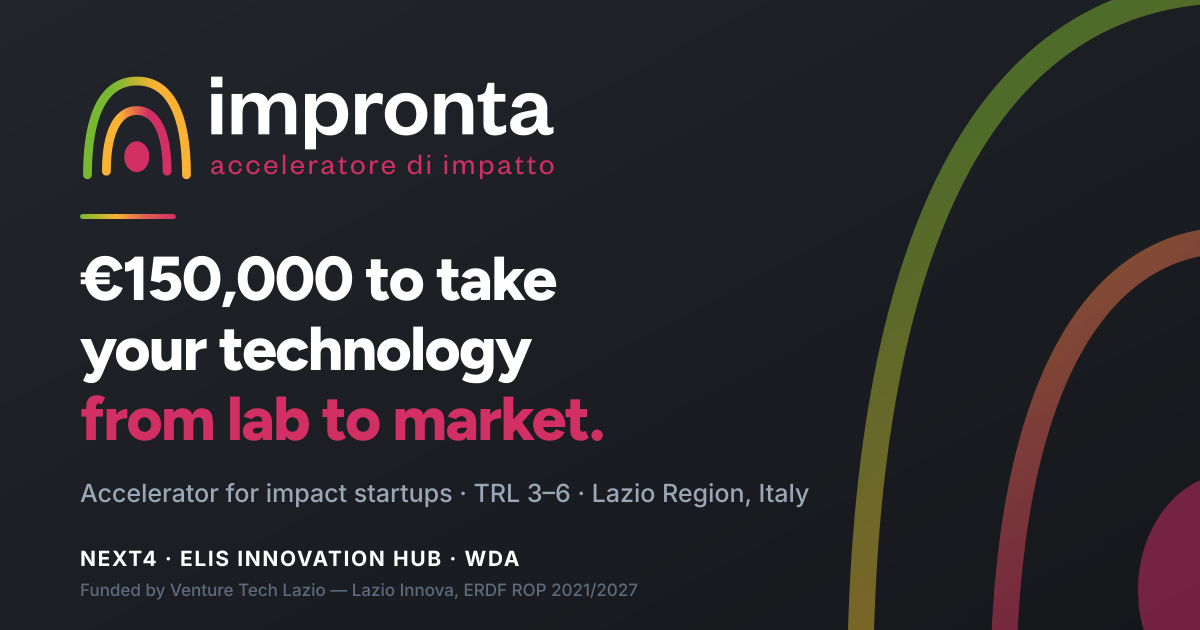
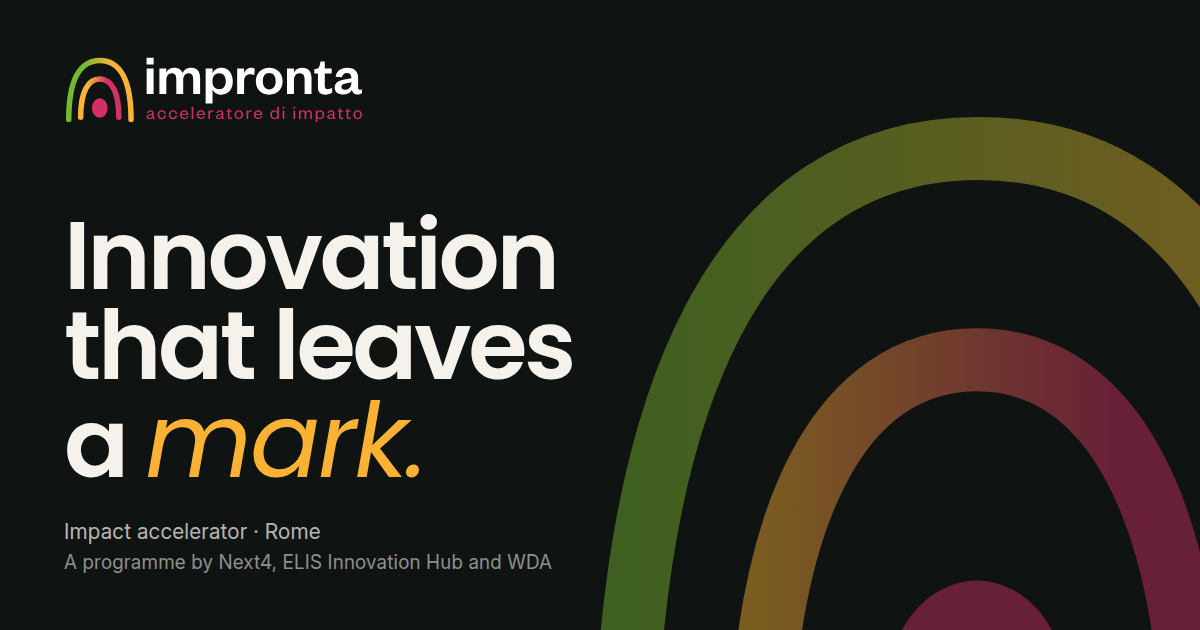
redesign-v2: sospesi chiusi e dominio pronto a essere collegato
Indicizzazione
- INDEXABLE passa a true: deciso dal team. Il commento in config.ts dice
  perche' va pubblicato insieme al dominio e non prima, e quali due cose
  restano in carico al team (obbligo FESR, testi legali).

Descrizioni
- Le meta description IT ed EN erano ferme a tre ambiti su quattro e
  legavano i quattro mesi alla citta'. Ora dicono quello che dice l'hero.

Inglese
- Riletto per intero: i marcatori EN-DA-RIVEDERE sparsi diventano una nota
  in testa al file che dichiara lo stato vero — tradotto e coerente, non
  ancora firmato da chi in Impronta risponde del testo inglese.

Anteprime social
- scripts/og.mjs, `npm run og`: le OG image erano rimaste alla v1, dicevano
  un'altra cosa con un'altra tipografia. Ora sono l'hero a 1200x630, con i
  font di marca e il marchio ufficiale. Il piede sta tutto a sinistra:
  sovrapposto agli archi il grigio non reggeva il contrasto.

Dominio
- docs/DOMINIO.md: record DNS verificati sulla documentazione GitHub, ordine
  delle operazioni, e le verifiche da fare dopo, che non sono «il workflow e'
  verde». Manca solo il nome del dominio.

Claude-Session: https://claude.ai/code/session_01UoEXQwQ4Vv3GwCmF34HM9P

Changed region(s): [[0.0308, 0.0, 1.0, 1.0], [0.0308, 0.0905, 0.4625, 0.3016], [0.0, 0.0, 0.0617, 0.0603]]

diff --git a/src/i18n/en.ts b/src/i18n/en.ts
@@ -4,21 +4,25 @@ import type { Dict } from './it';
  * L'annotazione `: Dict` è deliberata: se una chiave manca o è di troppo
  * rispetto all'italiano, `astro check` fallisce in CI invece di lasciare
  * testo italiano dentro la pagina inglese.
+ *
+ * Traduzione riletta per intero il 18 settembre 2026: non è più provvisoria,
+ * ma non è ancora passata da chi in Impronta risponde del testo inglese.
+ * L'inglese è britannico (programme, organisation) come il `locale` en_GB.
+ * Le sigle e i nomi propri non si traducono: TRL, SROI, Villa Fassini,
+ * Agorà Impronta, i nomi dei promotori.
  */
 export const en: Dict = {
-  // EN-DA-RIVEDERE
   meta: {
     locale: "en_GB",
     title: "Impronta — Impact accelerator",
     description:
-      "Each year Impronta accelerates six startups and spin-offs with technologies that improve the environment, health and industry. Four months in Rome and a €150,000 investment.",
+      "The impact accelerator by Next4, ELIS Innovation Hub and WDA. Six startups per batch, €150,000 in equity, technologies for environment, health, industry and society.",
     ogImage: "og-image-en.png",
     skipToContent: "Skip to content",
     logoLabel: "Impronta, impact accelerator",
     homeLabel: "Impronta, back to the top",
   },
 
-  // EN-DA-RIVEDERE
   nav: {
     items: [
       { id: "programma", label: "The programme" },
@@ -30,7 +34,6 @@ export const en: Dict = {
     langLabel: "Site language",
   },
 
-  // EN-DA-RIVEDERE
   hero: {
     place: "Impact accelerator · Rome",
     callOpen: "Applications open · 2026 batch",
@@ -51,7 +54,6 @@ export const en: Dict = {
     ctaSecondary: "See the programme",
   },
 
-  // EN-DA-RIVEDERE
   programma: {
     label: "The programme",
     intro: "We fund technologies that improve life in a community or a region. Impact arises in very different sectors: the programme looks at all of them.",
@@ -63,7 +65,6 @@ export const en: Dict = {
     ],
   },
 
-  // EN-DA-RIVEDERE
   fronti: {
     label: "What we look for",
     title: "Technologies with a measurable effect",
@@ -96,18 +97,16 @@ export const en: Dict = {
     ],
   },
 
-  // EN-DA-RIVEDERE
   perChi: {
     label: "Who it is for",
     lead: "Startups, university spin-offs and research groups with a validated technology and a clear idea of where to apply it.",
     items: [
       { k: "TRL 3–9", v: "From proof of concept to market" },
-      { k: "Lazio", v: "An operating base in Lazio, which may be opened before the start" },
+      { k: "Lazio", v: "An operating base in Lazio, which you may open before the start" },
       { k: "Pre-seed", v: "Incorporated, or still to be" },
     ],
   },
 
-  // EN-DA-RIVEDERE
   comeFunziona: {
     label: "How it works",
     title: { riga1: "How you get in,", riga2: "and what you get" },
@@ -120,7 +119,6 @@ export const en: Dict = {
     ],
   },
 
-  // EN-DA-RIVEDERE
   chiSiamo: {
     label: "A programme by",
     orgs: [
@@ -130,7 +128,6 @@ export const en: Dict = {
     ],
   },
 
-  // EN-DA-RIVEDERE
   sede: {
     label: "Villa Fassini, Rome",
     title: "The venue and the community",
@@ -154,7 +151,6 @@ export const en: Dict = {
     mailPrefix: "Questions?",
   },
 
-  // EN-DA-RIVEDERE
   footer: {
     promoters: "A programme by Next4, ELIS Innovation Hub and WDA",
     address: "Villa Fassini · Via Giuseppe Donati 174, Rome",
@@ -221,7 +217,6 @@ export const en: Dict = {
       "This text must be updated if analytics tools, marketing pixels or embedded third-party content are added in future.",
   },
 
-  // EN-DA-RIVEDERE
   notFound: {
     title: "Page not found",
     text: "The link you followed does not lead to any page on this site.",

diff --git a/src/config.ts b/src/config.ts
@@ -18,11 +18,22 @@ export const APPLICATION_FORM_URL = '';
 export const APPLICATION_DEADLINE = '';
 
 /**
- * Mettere a `true` quando APPLICATION_FORM_URL è impostato e i testi legali
- * sono definitivi. Finché è `false` il sito resta raggiungibile da chiunque
- * abbia il link, ma chiede ai motori di ricerca di non indicizzarlo.
+ * Apertura ai motori di ricerca. Deciso dal team il 18 settembre 2026.
+ *
+ * Il valore va in `<meta name="robots">` e in `robots.txt`. Va pubblicato
+ * **insieme al dominio custom**, non prima: finché il sito vive su
+ * `alessandro562.github.io/ImprontaAccelerator/`, aprire l’indicizzazione
+ * significa far indicizzare quell’indirizzo e poi doverlo far migrare a
+ * colpi di redirect.
+ *
+ * Due cose restano fuori dal codice e in carico al team, entrambe da
+ * chiudere prima che Google passi:
+ * - l’obbligo di visibilità FESR: se è attivo, i riferimenti a Venture Tech
+ *   Lazio vanno rimessi in pagina (regola 5 di CLAUDE.md);
+ * - i testi di privacy e cookie, che oggi dichiarano di essere una base di
+ *   partenza non validata.
  */
-export const INDEXABLE = false;
+export const INDEXABLE = true;
 
 /**
  * I nomi delle persone (team di programma e Advisory Board) restano fuori

diff --git a/src/i18n/it.ts b/src/i18n/it.ts
@@ -10,7 +10,7 @@ export const it = {
     locale: "it_IT",
     title: "Impronta — Acceleratore d’impatto",
     description:
-      "Impronta accelera ogni anno sei startup e spin-off con tecnologie a impatto su ambiente, salute e industria. Quattro mesi a Roma e un investimento di €150.000.",
+      "L’acceleratore di impatto di Next4, ELIS Innovation Hub e WDA. Sei startup per batch, €150.000 in equity, tecnologie per ambiente, salute, industria e sociale.",
     ogImage: "og-image.png",
     skipToContent: "Vai al contenuto",
     logoLabel: "Impronta, acceleratore d’impatto",

diff --git a/docs/DOMINIO.md b/docs/DOMINIO.md
@@ -1,0 +1,107 @@
+# Collegare il dominio
+
+Procedura per portare la landing dall'indirizzo provvisorio
+`https://alessandro562.github.io/ImprontaAccelerator/` al dominio di Impronta.
+
+I valori DNS qui sotto sono quelli dichiarati da GitHub nella documentazione
+ufficiale di GitHub Pages, verificati il 18 settembre 2026. Se un giorno non
+funzionassero, la fonte da ricontrollare è quella, non questo file.
+
+**Manca solo il nome del dominio.** Tutto il resto è pronto: appena sappiamo
+qual è, i passi 1–3 si fanno in un quarto d'ora e il resto è attesa del DNS.
+
+## Cosa non va toccato nel codice
+
+Niente. `astro.config.mjs` legge `SITE_URL` e `BASE_PATH` da
+`actions/configure-pages`, che a sua volta li prende dalle impostazioni Pages
+del repository: nel momento in cui il dominio custom è impostato, il base path
+diventa vuoto e la build si riadatta da sola. Nessun file `CNAME` serve, perché
+il deploy passa da GitHub Actions e non dal branch: GitHub lo dice
+esplicitamente, un eventuale `CNAME` in repo verrebbe ignorato.
+
+## 1 — Record DNS, dal registrar
+
+### Se il dominio principale è quello nudo (`improntaaccelerator.it`)
+
+Quattro record `A` e quattro `AAAA`, tutti sul nome `@`:
+
+| Tipo | Nome | Valore |
+|---|---|---|
+| A | @ | `185.199.108.153` |
+| A | @ | `185.199.109.153` |
+| A | @ | `185.199.110.153` |
+| A | @ | `185.199.111.153` |
+| AAAA | @ | `2606:50c0:8000::153` |
+| AAAA | @ | `2606:50c0:8001::153` |
+| AAAA | @ | `2606:50c0:8002::153` |
+| AAAA | @ | `2606:50c0:8003::153` |
+
+Più un `CNAME` da `www` a `alessandro562.github.io` (senza il nome del
+repository, e con il punto finale se il pannello del registrar lo richiede),
+così anche `www` risponde e GitHub lo redirige al dominio nudo.
+
+### Se il dominio principale è `www`
+
+Basta il solo `CNAME` da `www` a `alessandro562.github.io`. È la variante più
+robusta — se GitHub cambiasse gli IP non dovremmo accorgercene — ma l'indirizzo
+che si legge in giro è più lungo. I record `A`/`AAAA` sul nome nudo servono
+comunque, se vogliamo che chi digita il dominio senza `www` non trovi il vuoto.
+
+Attenzione a due cose che al registrar capitano spesso:
+- se c'è già un record `A` o un reindirizzamento "parcheggio dominio" sul nome
+  nudo, va **rimosso**, non affiancato;
+- il `CNAME` del `www` non può convivere con altri record sullo stesso nome.
+
+## 2 — Impostazioni del repository
+
+`Settings` → `Pages` → `Custom domain`: scrivere il dominio e salvare. GitHub
+fa un controllo DNS; finché i record non si sono propagati mostra un avviso,
+che è normale e si risolve da solo.
+
+Poi lasciare il repository lì e aspettare: la casella **Enforce HTTPS** può
+richiedere fino a 24 ore per diventare selezionabile, perché nel frattempo
+GitHub emette il certificato. Quando è selezionabile, va selezionata.
+
+## 3 — Ricostruire il sito
+
+Il cambio di dominio non fa ripartire la build da solo, e finché non riparte le
+pagine continuano a dichiarare i vecchi URL canonici e a servire i link con
+`/ImprontaAccelerator/` davanti.
+
+`Actions` → workflow «Deploy su GitHub Pages» → `Run workflow`. Oppure un
+qualunque push su `main`.
+
+## 4 — Verifiche, dopo
+
+Non basta che il workflow sia verde.
+
+```sh
+D=improntaaccelerator.it   # o www.improntaaccelerator.it
+
+curl -sI "https://$D/" | head -1                     # atteso: 200
+curl -sI "https://alessandro562.github.io/ImprontaAccelerator/" | head -1  # atteso: 301
+curl -s  "https://$D/" | grep -o '<link rel="canonical"[^>]*>'
+curl -s  "https://$D/robots.txt"
+curl -sI "https://$D/en/" | head -1                  # atteso: 200
+curl -s  "https://$D/sitemap-index.xml" | head -3
+```
+
+Il canonical e la sitemap devono dire il dominio nuovo e **non** contenere più
+`/ImprontaAccelerator/`. Se lo contengono, la build è ripartita prima che il
+dominio fosse registrato nelle impostazioni Pages: rilanciare il workflow.
+
+## 5 — Prima che Google passi
+
+L'indicizzazione è aperta (`INDEXABLE = true` in `src/config.ts`), quindi dal
+primo deploy sul dominio il sito è indicizzabile. Tre cose non dipendono dal
+codice e vanno chiuse prima, non dopo:
+
+- **Obbligo di visibilità FESR.** Se è attivo, i riferimenti a Venture Tech
+  Lazio vanno rimessi in pagina: oggi non ci sono, per la richiesta del 14
+  settembre (regola 5 di `CLAUDE.md`).
+- **Privacy e cookie.** I testi in pagina dichiarano di essere una base di
+  partenza non validata legalmente.
+- **Il PDF riservato ancora scaricabile.** Vedi
+  `docs/redesign-v1/RICHIESTA-GITHUB.md`: la richiesta di purge al supporto
+  GitHub non è ancora stata inviata e può inviarla solo il titolare
+  dell'account. Un sito indicizzato porta attenzione sul repository.
